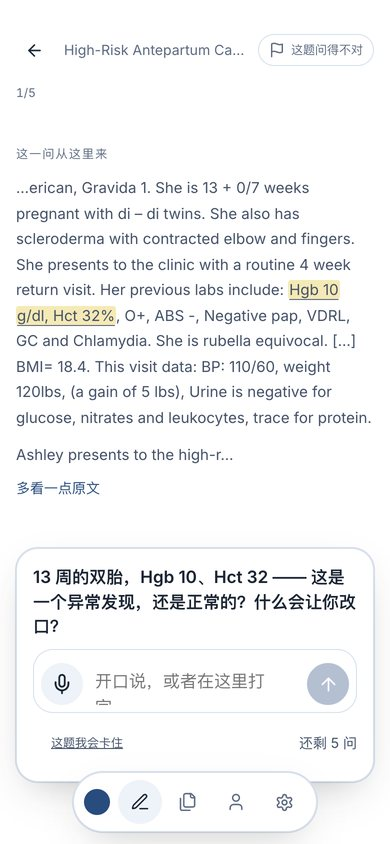
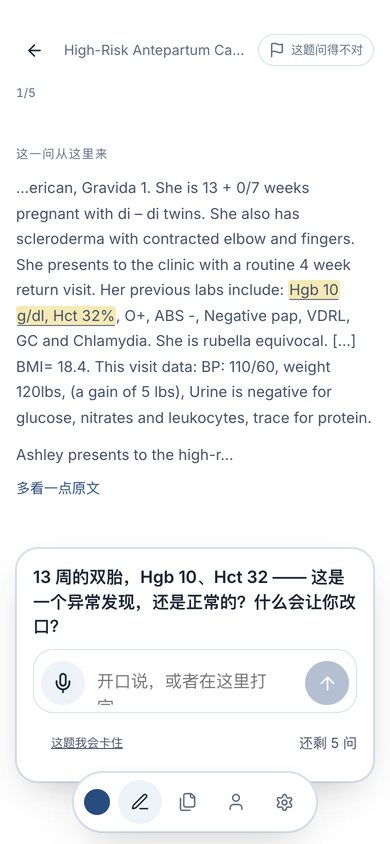
v7 R2: make the 44px floor a gate, and find it was false on seven schemes
The sheet prints '逃生口 ≥44×44 且与提交同级' as a foundation shared by all ten,
and until now that was hand-checked on the one scheme it was written for.
shot-schemes now asserts both dock actions on every scheme at phone width.

Its first run failed on seven of ten: .s-mic/.s-send were globally 42x42, with
only scheme 03 overriding to 44. The escape hatch held its floor; the commit
button never had one. So the claim on the sheet was false for seven schemes
while reading as a settled foundation. Raised to 44 and the override deleted.

The flag button stays out of scope on purpose — 32px in all ten, and raising it
is a density decision across every scheme rather than a defect fix. That
exclusion is written down in OBSERVED-3 so the floor is not read as covering
every control on the screen.

verify:all green; sheet re-shot and jpgs refreshed.

diff --git a/src/styles/shapes.css b/src/styles/shapes.css
@@ -355,7 +355,10 @@ nav.s-dock .s-logo { margin-right: 4px; }
 .s-src.is-defended { --anchor-tint: var(--held-wash); }
 .s-dock { display: grid; gap: 8px; }
 .s-dock-row { display: grid; grid-template-columns: auto 1fr auto; align-items: end; gap: 8px; padding: 7px; background: var(--sheet); border: 1px solid var(--hairline); border-radius: 20px; }
-.s-mic, .s-send { display: grid; place-items: center; width: 42px; height: 42px; border-radius: 999px; border: 0; cursor: pointer; }
+/* 44, not 42. The sheet prints the 44px floor as a foundation shared by all
+   ten, and shot-schemes now asserts it on every scheme's run screen — it failed
+   on seven of them at 42 before this line changed. */
+.s-mic, .s-send { display: grid; place-items: center; width: 44px; height: 44px; border-radius: 999px; border: 0; cursor: pointer; }
 .s-mic { background: var(--app-2); color: var(--ink); }
 .s-mic[data-recording="true"] { background: var(--accent); color: var(--accent-ink); }
 .s-mic.is-disabled { opacity: .35; cursor: default; }
@@ -684,7 +687,6 @@ nav.s-dock .s-logo { margin-right: 4px; }
 .s-run-spoken .s-mic { width: 72px; height: 72px; background: var(--accent); color: var(--accent-ink); }
 .s-run-spoken .s-mic svg { width: 30px; height: 30px; }
 .s-run-spoken .s-answer-input { width: 100%; text-align: center; font-size: var(--t-small); }
-.s-run-spoken .s-send { width: 44px; height: 44px; }
 
 /* ── 04 · honest home + run ─────────────────────────────────────────────── */
 .s-honest-h1 { font-size: 1.5rem; font-weight: 700; line-height: 1.35; }

diff --git a/design/v7r2/OBSERVED-3.md b/design/v7r2/OBSERVED-3.md
@@ -52,3 +52,25 @@ Notion 那条推断**从论据里撤掉**，不再需要它。
   构建上证到了。`DECISION.md` §1 里那条 Notion 论据我直接删掉，而不是继续挂着「未验证」。
 - 只量了 09 / 01 / 02 / 04 四个方案。另外六个的触控下限**没有逐个量过**，别把这一轮的结论
   推广成「十个方案都合规」。
+
+---
+
+## 补：把「44px 下限」从一句话变成一个门禁（03:4x）
+
+`OBSERVED-3` 上面那节结尾写了「另外六个方案的触控下限没有逐个量过」。当天就补上了，
+做法不是再手量一遍，而是把它写进 `shot-schemes.cjs`：**十个方案的练习屏，答题坞里的两个动作
+（逃生口、提交）都必须 ≥44×44**，任一不合格即整个脚本红。
+
+**加上门禁的当次运行，十个方案里有七个当场报错**：
+
+```
+✗ 01/run commit is 42×42 — 01 02 05 06 07 08 09 均为 42×42
+```
+
+原因：`.s-mic, .s-send` 全局写死 42×42（只有 03 单独覆盖成 44）。也就是说——
+**总表上印着的「共同地基：逃生口 ≥44×44 且与提交同级」，在七个方案上其实是假的**，
+逃生口守住了 44，提交钮一直是 42。改成 44 之后门禁转绿。
+
+**旗标钮（「这题问得不对」）故意留在门禁之外**：它在十个方案里都是 32px 的次级控件，
+抬到 44 会改变全部十个方案的 chrome 密度，那是设计决定不是缺陷修复。**这一条要写进交付，
+不能让「44px 下限」听起来像是全屏所有控件都合规。**
